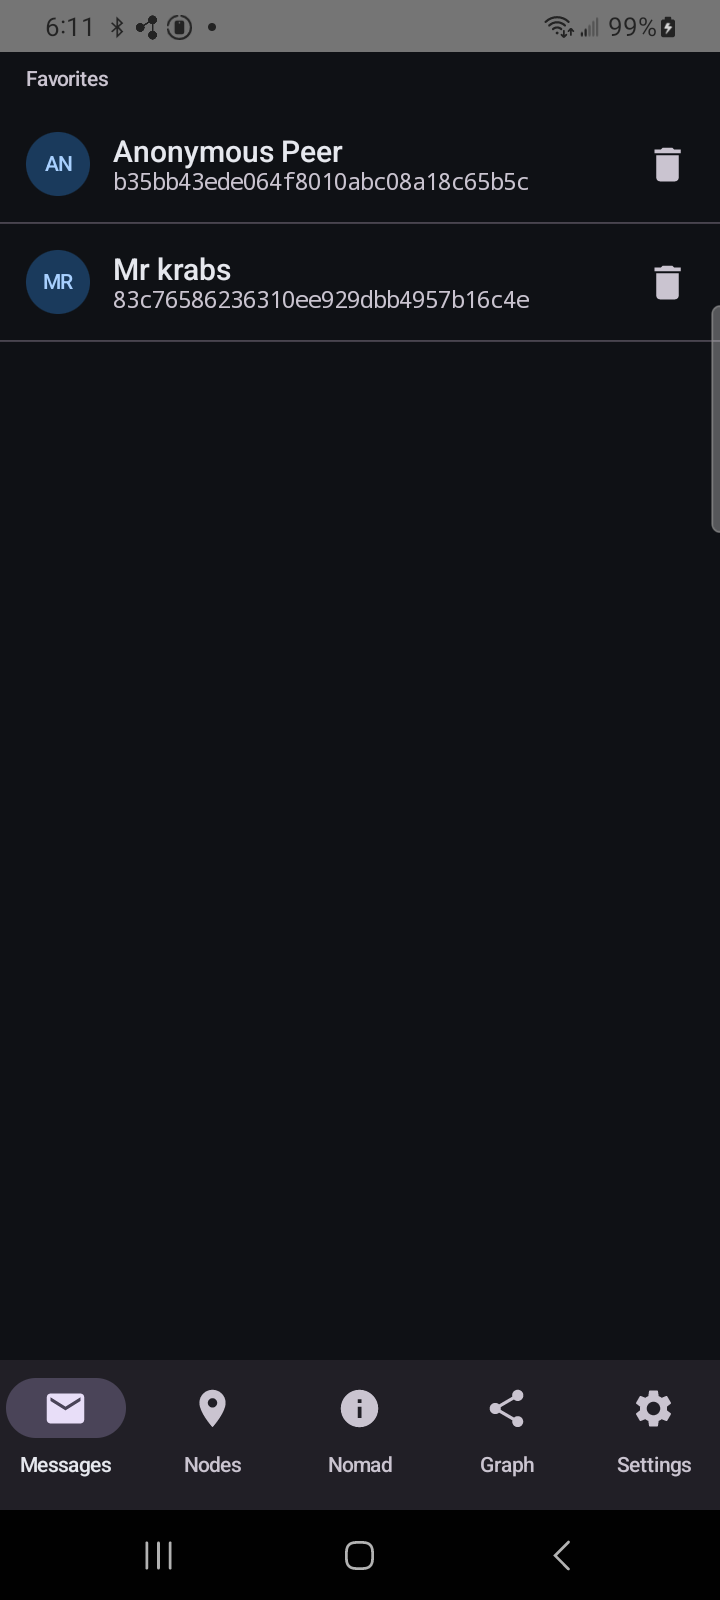
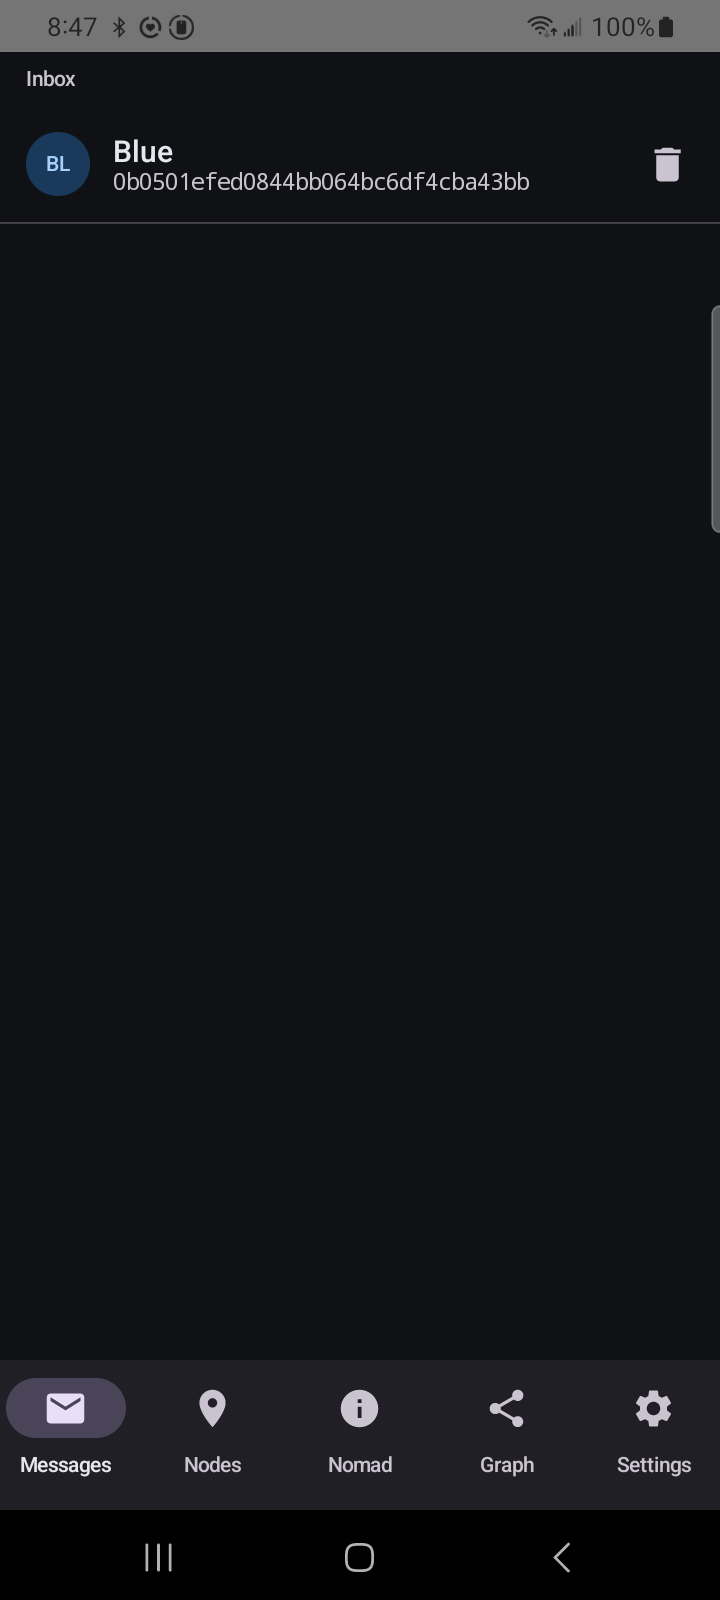
docs: README — multi-transport, nicknames, hardening + fresh screenshots
Adds a v0.1.51–v0.1.83 changelog section covering NomadNet browser
parity, Resource-protocol fixes, multi-transport (BLE + BT Classic +
TCP simultaneously), the announce destHash hardening, local
nicknames, and the red-Settings-when-disconnected indicator. Reshoots
the five tab screenshots from v0.1.83 against the live MichMesh TCP
node. Top paragraph and Tabs section updated to reflect the new
transport set.

diff --git a/README.md b/README.md
@@ -1,8 +1,8 @@
 # Reticulum Mobile App
 
-Native Android (Kotlin Multiplatform) client for the [Reticulum](https://reticulum.network/) LoRa mesh network. Replaces the [browser-based webclient](../reticulum-lora-webclient/) with a real native app that runs a foreground service for persistent BLE/TCP connections, fires system notifications on incoming LXMF messages, and ships as a signed APK.
+Native Android (Kotlin Multiplatform) client for the [Reticulum](https://reticulum.network/) LoRa mesh network. Replaces the [browser-based webclient](../reticulum-lora-webclient/) with a real native app that runs a foreground service for persistent BLE / Bluetooth-Classic / TCP connections (any combination, simultaneously), fires system notifications on incoming LXMF messages, and ships as a signed APK.
 
-**No external dependencies.** No accounts, no registration, no API keys, no central server, no analytics, no Google Play Services, no Firebase. Identity is generated on-device, all crypto runs locally, persistence is Room (local SQLite). The only outbound traffic is whatever transport the user chooses to attach (BLE to their own RNode, or TCP to an `rnsd` they pick — including `127.0.0.1` for fully-offline LAN testing). The Nodes tab also embeds an OpenStreetMap block when at least one observed destination carries lat/lon telemetry — that's the sole HTTP fetch in the app, and it only runs when those tiles need to render.
+**No external dependencies.** No accounts, no registration, no API keys, no central server, no analytics, no Google Play Services, no Firebase. Identity is generated on-device, all crypto runs locally, persistence is Room (local SQLite). The only outbound traffic is whatever transport the user chooses to attach (BLE or Bluetooth Classic / RFCOMM to their own RNode, or TCP to an `rnsd` they pick — including `127.0.0.1` for fully-offline LAN testing). The Nodes tab also embeds an OpenStreetMap block when at least one observed destination carries lat/lon telemetry — that's the sole HTTP fetch in the app, and it only runs when those tiles need to render.
 
 ## Status
 
@@ -13,16 +13,16 @@ The badge above always points at the most recent tag — no README edits needed 
 
 Works end-to-end against a known-good Reticulum mesh:
 
-- Connects to an RNode over BLE (with a Scan-for-RNode picker, no manual MAC entry needed)
-- Pushes LoRa radio config (freq / BW / SF / CR / TX power) to the RNode on connect
-- Connects to a remote rnsd `TCPServerInterface` (e.g. `RNS.MichMesh.net:7822`) or a local transport node for testing
-- Receives announces, parses them, populates a unified Destinations table
-- Renders a relay-aware Graph view (`me → relay → leaf`) using cached HEADER_2 transport_ids
-- Renders NomadNet micron pages over Reticulum Links (single-packet + Resource-fragmented pages)
-- Sends/receives opportunistic LXMF messages, including multi-hop transit via the §2.3 HEADER_2 conversion
-- Generates a per-install Reticulum identity, persists it in Room
-- Shares it via a QR code on the Settings tab; scans others' QR codes from the Nodes tab
-- Foreground service keeps the connection alive when the Activity is gone, fires high-priority notifications on inbound messages
+- Connects to an RNode over **BLE** (Scan-for-RNode picker, no manual MAC), **Bluetooth Classic / RFCOMM** (paired-devices picker), or directly to a remote rnsd `TCPServerInterface` (e.g. `RNS.MichMesh.net:7822`) — all three can run **simultaneously** so a phone with a local LoRa RNode AND a wider-mesh TCP attachment is reachable on both.
+- Pushes LoRa radio config (freq / BW / SF / CR / TX power) to every attached RNode on connect.
+- Receives announces, parses them, populates a unified Destinations table. Inbound dedup across transports — same announce arriving via BLE and TCP is ingested once.
+- Renders a relay-aware Graph view (`me → relay → leaf`) using cached HEADER_2 transport_ids.
+- Renders NomadNet micron pages over Reticulum Links (single-packet + Resource-fragmented pages, in-page link navigation, page cache, form input fields, partials).
+- Sends/receives opportunistic LXMF messages, including multi-hop transit via the §2.3 HEADER_2 conversion. Per-link traffic pins to the transport that established it, so a link opened on BLE doesn't accidentally retry over TCP.
+- Generates a per-install Reticulum identity, persists it in Room.
+- Shares it via a QR code on the Settings tab; scans others' QR codes from the Nodes tab.
+- Local-only nicknames per contact — overrides the announced display name without ever being sent on the wire. Useful for keeping a public handle separate from a private "real-name" label.
+- Foreground service keeps the connection alive when the Activity is gone, fires high-priority notifications on inbound messages. The Settings-tab icon goes red when no transport is up — at-a-glance "am I online?" check from any screen.
 
 ### Recent spec compliance + NomadNet fixes (v0.1.40–v0.1.50)
 
@@ -40,19 +40,31 @@ A multi-day chase localized a chronic "outbound to transit destinations doesn't 
 
 End-to-end verified 2026-05-03/04 against `tools/test_lxmf_receiver.py` + `tools/test_nomadnet_node.py` and live MichMesh nodes. See `todo.md` for surviving spec-compliance gaps (initiator-side KEEPALIVE, LXMF stamps, PROOF signature verification).
 
+### NomadNet maturity + transport flexibility (v0.1.51–v0.1.83)
+
+After the v0.1.40–v0.1.50 spec-compliance push fixed the framing-level gaps, this stretch turned the app into a real NomadNet browser, added two more transports, and locked down a couple of attack surfaces:
+
+- **NomadNet browser parity** — same-node + cross-node link navigation (v0.1.52, v0.1.56), page cache + history-aware Back (v0.1.65–66), link reuse across page nav so intra-node clicks skip the LRPROOF round trip (v0.1.66), partials / server-side includes (v0.1.67), `var_<name>` URL params + checkbox-unchecked omit semantics (v0.1.61), opt-in `LINKIDENTIFY` for ALLOW_LIST pages (v0.1.64), search box + favorite stars + cached-filter chip (v0.1.51).
+- **Micron parser pulled into line with `MicronParser.py`** — page-level `#!c=` / `#!bg=` / `#!fg=` headers (v0.1.62), table syntax `` `t[lcr][N]…`t `` (v0.1.63), HR detection (v0.1.58), block-level rules (v0.1.59), checkbox/radio layout (v0.1.57), input validation hardening (v0.1.60).
+- **Resource-protocol fixes** — receiver now issues `RESOURCE_REQ` per §10.5 (v0.1.73), RESOURCE chunks aren't individually encrypted per §10.2 (v0.1.74), strip-leading-`random_hash` matches upstream (v0.1.75).
+- **Multi-transport** — Bluetooth Classic / RFCOMM (SPP) added alongside BLE (v0.1.78); `ReticulumEngine` rebuilt around a per-kind transport map so BLE + BT Classic + TCP can be attached simultaneously with independent reconnect supervisors (v0.1.80). Per-link traffic pins to the kind that delivered the LRPROOF; broadcasts (announces, path requests, opportunistic LXMF, initiator LINKREQUEST) fan out to every attached kind. Inbound dedup is global.
+- **Security hardening** — Resource size + bz2 decompression-bomb caps (v0.1.55), `validateAnnounce` now also recomputes `SHA256(name_hash ‖ identity_hash)[:16]` and checks it equals the on-wire dest_hash so an attacker can't claim someone else's destination with their own keypair (v0.1.82, matches upstream `RNS Identity.validate_announce`).
+- **Contact UX** — local-only nicknames per contact (`userLabel` field, v0.1.83) — Room schema bumped to v7 with the codebase's first non-destructive migration so existing contacts and message history survive the upgrade. Nicknames win over the announced display name everywhere it's rendered, and are never transmitted. Tap the pencil on any Nodes row to set or clear.
+- **At-a-glance connectivity** — when no transport is connected, the Settings tab icon in the bottom nav turns red (v0.1.83). Same signal from every screen, zero vertical-space cost.
+
 ## Screenshots
 
-Live against the MichMesh TCP transport node (`RNS.MichMesh.net:7822`) on a Galaxy A42 5G. Screenshots are from v0.1.33; the relay-aware Graph and the v0.1.40+ delivery fixes have shipped since — UI shape is unchanged.
+Live against the MichMesh TCP transport node (`RNS.MichMesh.net:7822`) on a Galaxy A42 5G running v0.1.83.
 
 | Messages | Nodes | Nomad | Graph | Settings |
 |---|---|---|---|---|
 | ![Messages](docs/screenshots/01-messages.png) | ![Nodes](docs/screenshots/02-nodes.png) | ![Nomad](docs/screenshots/03-nomad.png) | ![Graph](docs/screenshots/04-graph.png) | ![Settings](docs/screenshots/05-settings.png) |
 
-- **Messages** — favorited destinations; tap a row to open the conversation. Star a node from the Nodes tab to bring it here.
-- **Nodes** — every observed `lxmf.delivery` destination with filter chips (Messagable / All / Telemetry / Favorites), search, manual hash entry, and QR scanner.
-- **Nomad** — `nomadnetwork.node` destinations. Tap a node → automatically fetches `/page/index.mu` over a Reticulum Link and renders the micron content. Reload + Back affordances on the page view.
-- **Graph** — Compose Canvas force-directed view (LXMF favorite / LXMF other / Non-LXMF / Relay). As of v0.1.44 each unique `nextHop` (transport_id captured from inbound HEADER_2 announces) is promoted to its own relay node; multi-hop destinations route as `me → relay → leaf` instead of the prior flat star. Pinch to zoom, drag to reposition.
-- **Settings** — connection status + uptime, BLE scanner, TCP host:port, radio config (freq / BW / SF / CR / TX), identity (display name + QR), diagnostics log.
+- **Messages** — favorited destinations + inbox (every sender we've received an incoming LXMF from). Tap a row to open the conversation. Trash icon deletes the destination + its message history.
+- **Nodes** — every observed destination with filter chips (Messagable / All / Telemetry / Favorites), search, manual hash entry, and QR scanner. Per-row pencil sets a private nickname (local-only, wins over announced name everywhere). Star toggles favorite; the metadata line shows hop count, RSSI, last-heard age, and stale/far warnings.
+- **Nomad** — `nomadnetwork.node` destinations with All / Favorites / Cached chips and search. Tap a node → fetches `/page/index.mu` over a Reticulum Link and renders the micron content. Cached pages render instantly while a fresh fetch runs in the background; favorites starred from the page header.
+- **Graph** — Compose Canvas force-directed view (LXMF favorite / LXMF other / Non-LXMF / Relay). Each unique `nextHop` (transport_id captured from inbound HEADER_2 announces) is promoted to its own relay node; multi-hop destinations route as `me → relay → leaf` instead of a flat star. Pinch zoom, drag to reposition.
+- **Settings** — multi-transport status (per-kind status line, e.g. `BLE — Connected · up 3m`, `TCP — Connected · up 12m`), BLE scanner, Bluetooth Classic paired-device picker, TCP host:port, radio config (freq / BW / SF / CR / TX), identity (display name + QR), diagnostics log. Each transport has its own connect/disconnect button and they run independently.
 
 ## Install
 
@@ -113,11 +125,11 @@ androidApp/            ← Android UI + lifecycle
 
 ## Tabs
 
-- **Messages** — favorited destinations with a conversation view; star a destination on Nodes to bring it here.
-- **Nodes** — every observed destination with filter chips (Messagable / All / Telemetry / Favorites). Manual hash entry + QR scanner. "Last seen" age + stale warning for destinations that haven't announced in 30 min.
-- **Nomad** — listing of `nomadnetwork.node` destinations. Tap a node → fetches `/page/index.mu` automatically over a Reticulum Link and renders the micron content. Single-packet pages and multi-packet pages assembled via the Resource protocol are both supported.
+- **Messages** — favorited destinations + inbox (every sender we've received an LXMF from), conversation view, per-row delete; star a destination on Nodes to pin it here.
+- **Nodes** — every observed destination with filter chips (Messagable / All / Telemetry / Favorites), search, manual hash entry + QR scanner. Per-row pencil sets a private nickname; per-row star toggles favorite. Metadata line shows hop count, RSSI, last-seen age, and stale (>30 min) / far (≥4 hops) warnings.
+- **Nomad** — listing of `nomadnetwork.node` destinations. Tap a node → automatic `/page/index.mu` fetch over a Reticulum Link. Single-packet and Resource-fragmented pages, in-page link nav (same-node + cross-node), page cache with "last pulled Xm ago" + reload + clear, form input fields (text / checkbox / radio), partials.
 - **Graph** — Compose Canvas force-directed view of all destinations + relays (`me → relay → leaf` via cached HEADER_2 transport_ids); pinch zoom, two-finger pan, drag-to-reposition.
-- **Settings** — connection (BLE scanner / TCP host:port), radio config (freq/BW/SF/CR/TX power), identity (display name editor, QR code, reset), diagnostics log with copy/clear.
+- **Settings** — multi-transport status with per-kind connect/disconnect (BLE scanner, Bluetooth Classic paired-device picker, TCP host:port — all run simultaneously), radio config (freq/BW/SF/CR/TX power) applied to every attached RNode, identity (display name editor, QR code, reset), diagnostics log with copy/clear. Bottom-nav Settings icon turns red when no transport is up.
 
 ## Build
 
